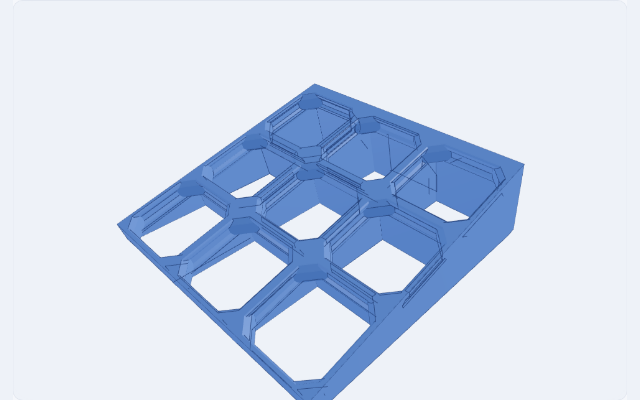
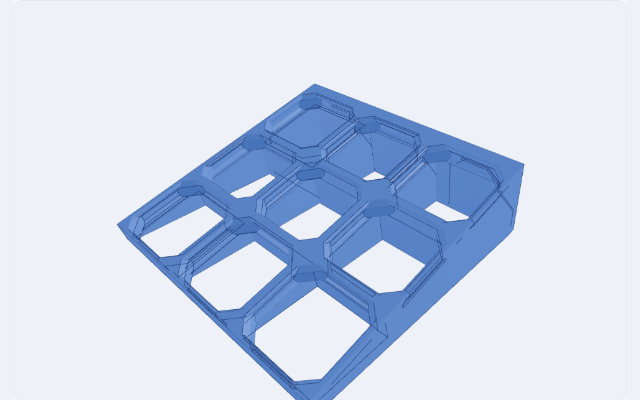
fix: close shelf front edge to build plane

diff --git a/src/cad-kernel/components/opengrid-openconnect-shelf/quality.ts b/src/cad-kernel/components/opengrid-openconnect-shelf/quality.ts
@@ -9,6 +9,7 @@ import type { TopAbs_ShapeEnum } from 'replicad-opencascadejs'
 import {
   boundsForOpenGridOpenConnectShelf,
   openGridOpenConnectShelfAngleRadiansFor,
+  openGridOpenConnectShelfDepthFor,
   openGridOpenConnectShelfFrontHeightFor,
   openGridOpenConnectShelfSlotOriginsFor,
   openGridOpenConnectShelfWidthFor,
@@ -249,8 +250,6 @@ function inspectGroundedTransverseRibs(
   const bayHalfWidth =
     configuration.gridPitch / 2 - configuration.supportThickness - 0.5
   const probes: Shape3D[] = []
-  let compound: Shape3D | null = null
-  let covered: Shape3D | null = null
   let missingVolume = Number.POSITIVE_INFINITY
   try {
     for (let rowBoundary = 1; rowBoundary < parameters.rows; rowBoundary += 1) {
@@ -267,21 +266,68 @@ function inspectGroundedTransverseRibs(
         )
       }
     }
-    compound = makeQualityProbeCompound(probes)
-    const expectedVolume = measureVolume(compound)
-    covered = shape.intersect(compound)
-    missingVolume = expectedVolume - measureVolume(covered)
+    missingVolume = missingGroundContactVolume(shape, probes)
   } catch {
+    probes.forEach(deleteShape)
     missingVolume = Number.POSITIVE_INFINITY
-  } finally {
-    deleteShape(covered)
-    deleteQualityProbes(compound, probes)
   }
   if (
     !Number.isFinite(missingVolume) ||
     missingVolume > GROUND_RIB_MISSING_VOLUME_TOLERANCE
   ) {
     failures.push('x-ground-ribs')
+  }
+}
+
+function missingGroundContactVolume(shape: Shape3D, probes: Shape3D[]): number {
+  let compound: Shape3D | null = null
+  let covered: Shape3D | null = null
+  try {
+    compound = makeQualityProbeCompound(probes)
+    const expectedVolume = measureVolume(compound)
+    covered = shape.intersect(compound)
+    return expectedVolume - measureVolume(covered)
+  } finally {
+    deleteShape(covered)
+    deleteQualityProbes(compound, probes)
+    probes.length = 0
+  }
+}
+
+function inspectGroundedFrontFascia(
+  shape: Shape3D,
+  parameters: OpenGridOpenConnectShelfParameters,
+  failures: string[],
+): void {
+  const configuration = OPENGRID_OPENCONNECT_SHELF_CONFIGURATION
+  const depth = openGridOpenConnectShelfDepthFor(parameters)
+  const radians = openGridOpenConnectShelfAngleRadiansFor(parameters.angle)
+  const printFrontY = -depth / Math.cos(radians)
+  const bayHalfWidth =
+    configuration.gridPitch / 2 - configuration.supportThickness - 0.5
+  const probes: Shape3D[] = []
+  let missingVolume = Number.POSITIVE_INFINITY
+  try {
+    for (let column = 0; column < parameters.columns; column += 1) {
+      const centerX =
+        (column - (parameters.columns - 1) / 2) * configuration.gridPitch
+      probes.push(
+        makeBox(
+          [centerX - bayHalfWidth, printFrontY + 0.2, 0],
+          [centerX + bayHalfWidth, printFrontY + 0.8, 0.5],
+        ),
+      )
+    }
+    missingVolume = missingGroundContactVolume(shape, probes)
+  } catch {
+    probes.forEach(deleteShape)
+    missingVolume = Number.POSITIVE_INFINITY
+  }
+  if (
+    !Number.isFinite(missingVolume) ||
+    missingVolume > GROUND_RIB_MISSING_VOLUME_TOLERANCE
+  ) {
+    failures.push('front-ground')
   }
 }
 
@@ -369,6 +415,7 @@ export function inspectOpenGridOpenConnectShelfShapeQuality(
   inspectInterfaceFaces(shape, parameters, failures)
   inspectOpenUnderside(shape, parameters, failures)
   inspectGroundedTransverseRibs(shape, parameters, failures)
+  inspectGroundedFrontFascia(shape, parameters, failures)
   const slotResidualVolumes = inspectLockedSlots(
     shape,
     parameters,

diff --git a/tests/worker/opengrid-openconnect-shelf.integration.test.ts b/tests/worker/opengrid-openconnect-shelf.integration.test.ts
@@ -403,6 +403,64 @@ describe('OpenGrid OpenConnect shelf CAD kernel integration', () => {
     }
   }, 180_000)
 
+  it('closes the low-angle front edge to the build plane across every column', async () => {
+    const parameters: OpenGridOpenConnectShelfParameters = {
+      columns: 3,
+      rows: 3,
+      angle: 1,
+    }
+    const configuration = OPENGRID_OPENCONNECT_SHELF_CONFIGURATION
+    const depth = openGridOpenConnectShelfDepthFor(parameters)
+    const radians = openGridOpenConnectShelfAngleRadiansFor(parameters.angle)
+    const printFrontY = -depth / Math.cos(radians)
+    const bayHalfWidth =
+      configuration.gridPitch / 2 - configuration.supportThickness - 0.5
+    const source = await lockedSlotSource()
+    const shape = await buildOpenGridOpenConnectShelf(parameters, {
+      getLockedSlot: async () => source,
+    })
+    try {
+      for (let column = 0; column < parameters.columns; column += 1) {
+        const centerX =
+          (column - (parameters.columns - 1) / 2) * configuration.gridPitch
+        const probe = makeBox(
+          [centerX - bayHalfWidth, printFrontY + 0.2, 0],
+          [centerX + bayHalfWidth, printFrontY + 0.8, 2],
+        )
+        let groundedFront: Shape3D | null = null
+        try {
+          groundedFront = shape.intersect(probe)
+          expect(measureVolume(groundedFront)).toBeGreaterThan(10)
+        } finally {
+          deleteShape(groundedFront)
+          probe.delete()
+        }
+      }
+
+      const frontOpening = makeBox(
+        [-bayHalfWidth, printFrontY - 0.1, -0.1],
+        [bayHalfWidth, printFrontY + 1, 3],
+      )
+      let openedShape: Shape3D | null = null
+      try {
+        openedShape = shape.cut(frontOpening)
+        const openedQuality = inspectOpenGridOpenConnectShelfShapeQuality(
+          openedShape,
+          parameters,
+          meshBRep(openedShape, { tolerance: 0.05, angularTolerance: 0.1 }),
+          source,
+        )
+        expect(openedQuality.failures).toContain('front-ground')
+      } finally {
+        if (openedShape !== shape) deleteShape(openedShape)
+        frontOpening.delete()
+      }
+    } finally {
+      shape.delete()
+      source.delete()
+    }
+  }, 180_000)
+
   it('keeps the sloped build surface on Z=0 at the one-cell angle boundary', async () => {
     const parameters: OpenGridOpenConnectShelfParameters = {
       columns: 1,

diff --git a/src/cad-kernel/components/opengrid-openconnect-shelf/builder.ts b/src/cad-kernel/components/opengrid-openconnect-shelf/builder.ts
@@ -212,6 +212,7 @@ function makeSupportPieces(
 ): Shape3D[] {
   const configuration = OPENGRID_OPENCONNECT_SHELF_CONFIGURATION
   const width = openGridOpenConnectShelfWidthFor(parameters)
+  const depth = openGridOpenConnectShelfDepthFor(parameters)
   const pieces: Shape3D[] = [makeRearPlate(parameters)]
   const longitudinalRibStarts = [
     -width / 2,
@@ -232,6 +233,9 @@ function makeSupportPieces(
       makeTransverseRib(parameters, -rowBoundary * configuration.gridPitch),
     )
   }
+  pieces.push(
+    makeTransverseRib(parameters, -depth + configuration.supportThickness / 2),
+  )
   return pieces
 }
 

diff --git a/openspec/specs/opengrid-openconnect-shelf/spec.md b/openspec/specs/opengrid-openconnect-shelf/spec.md
@@ -98,7 +98,7 @@ The rear face MUST contain exactly one upward-oriented OpenConnect receptacle fo
 
 ### Requirement: The opposite side forms an open printable rib support
 
-In installed coordinates, the lower edges of the two side ribs, every grid-aligned longitudinal Y-direction rib, and every internal grid-aligned transverse X-direction rib MUST share a sloped plane rising from the rear lower datum toward the front by `rows * 28 * tan(angle)` millimetres. Each `28 mm × 28 mm` cell bay bounded by those ribs MUST remain open and no continuous skin or base plate may span the underside. The resulting front height, measured between the common rib plane and the OpenGrid top datum, MUST be at least 7 mm. The rear plate, all X/Y ribs, and the OpenGrid Full interface MUST form one connected printable solid without changing the two functional interface planes. The completed model MUST then be rigidly oriented for preview and export so the coplanar rib feet lie on `Z=0` as its build surface.
+In installed coordinates, the lower edges of the two side ribs, every grid-aligned longitudinal Y-direction rib, every internal grid-aligned transverse X-direction rib, and a full-width front fascia MUST share a sloped plane rising from the rear lower datum toward the front by `rows * 28 * tan(angle)` millimetres. The front fascia MUST occupy only the inside of the nominal front boundary and extend continuously from the OpenGrid underside to that common rib plane. Each `28 mm × 28 mm` cell bay behind the front fascia MUST remain open and no continuous skin or base plate may span the underside. The resulting front height, measured between the common rib plane and the OpenGrid top datum, MUST be at least 7 mm. The rear plate, front fascia, all X/Y ribs, and the OpenGrid Full interface MUST form one connected printable solid without changing the two functional interface planes. The completed model MUST then be rigidly oriented for preview and export so the coplanar support feet lie on `Z=0` as its build surface.
 
 #### Scenario: Default rib plane follows the selected angle
 
@@ -106,6 +106,7 @@ In installed coordinates, the lower edges of the two side ribs, every grid-align
 - **THEN** its rib plane MUST rise toward the front by approximately `20.94 mm`
 - **AND** its front height MUST be approximately `7.06 mm`
 - **AND** two internal X-direction ribs MUST cross the full width on the 28 mm row boundaries
+- **AND** the exterior front edge MUST be closed to the common rib plane by a full-width fascia
 - **AND** all nine cell bays between the X/Y ribs MUST remain open
 
 #### Scenario: Ground every internal X-direction grid line
@@ -114,6 +115,13 @@ In installed coordinates, the lower edges of the two side ribs, every grid-align
 - **THEN** exactly `rows - 1` transverse ribs MUST span its width on 28 mm centers
 - **AND** each transverse rib lower edge MUST lie on the same sloped plane as the longitudinal ribs
 - **AND** after print orientation every transverse rib MUST contact `Z=0` across every column
+
+#### Scenario: Close the front opening at lower angles
+
+- **WHEN** a valid angle leaves vertical space between the front OpenGrid underside and the sloped build plane
+- **THEN** the front fascia MUST extend across every column and all the way down to that build plane
+- **AND** no open span may remain between the side ribs at the exterior front edge
+- **AND** the fascia MUST NOT extend beyond the nominal `rows * 28 mm` OpenGrid depth
 
 #### Scenario: Export rests on the sloped face
 
@@ -125,6 +133,7 @@ In installed coordinates, the lower edges of the two side ribs, every grid-align
 
 - **WHEN** the generated B-Rep is validated
 - **THEN** it MUST be a non-empty valid single solid with no detached ribs or rear plate
+- **AND** the full-width front fascia MUST contact the build plane across every column
 - **AND** every cell bay between the X/Y ribs MUST remain unobstructed near the build plane
 - **AND** its declared build-plane minimum Z MUST be zero within CAD tolerance
 
